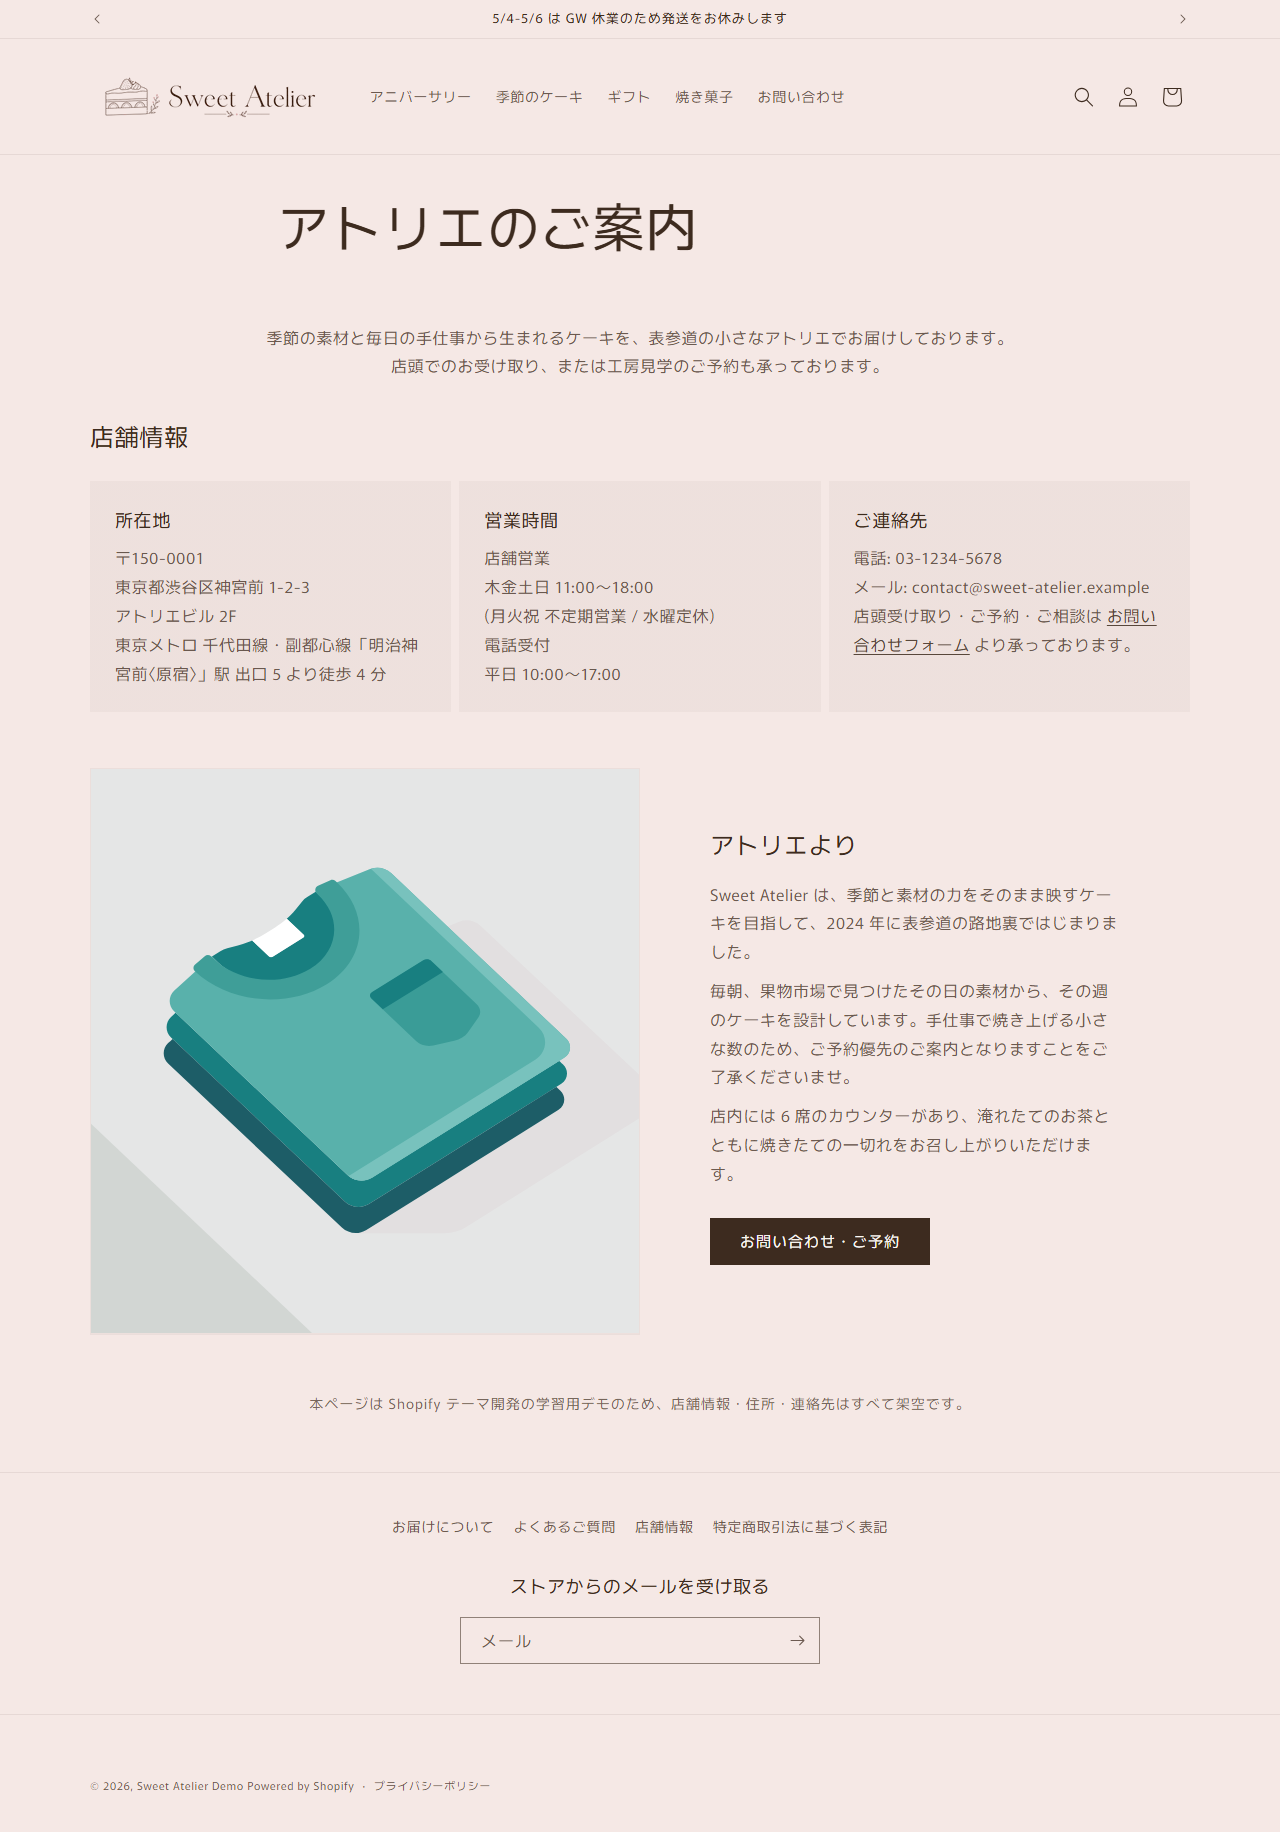
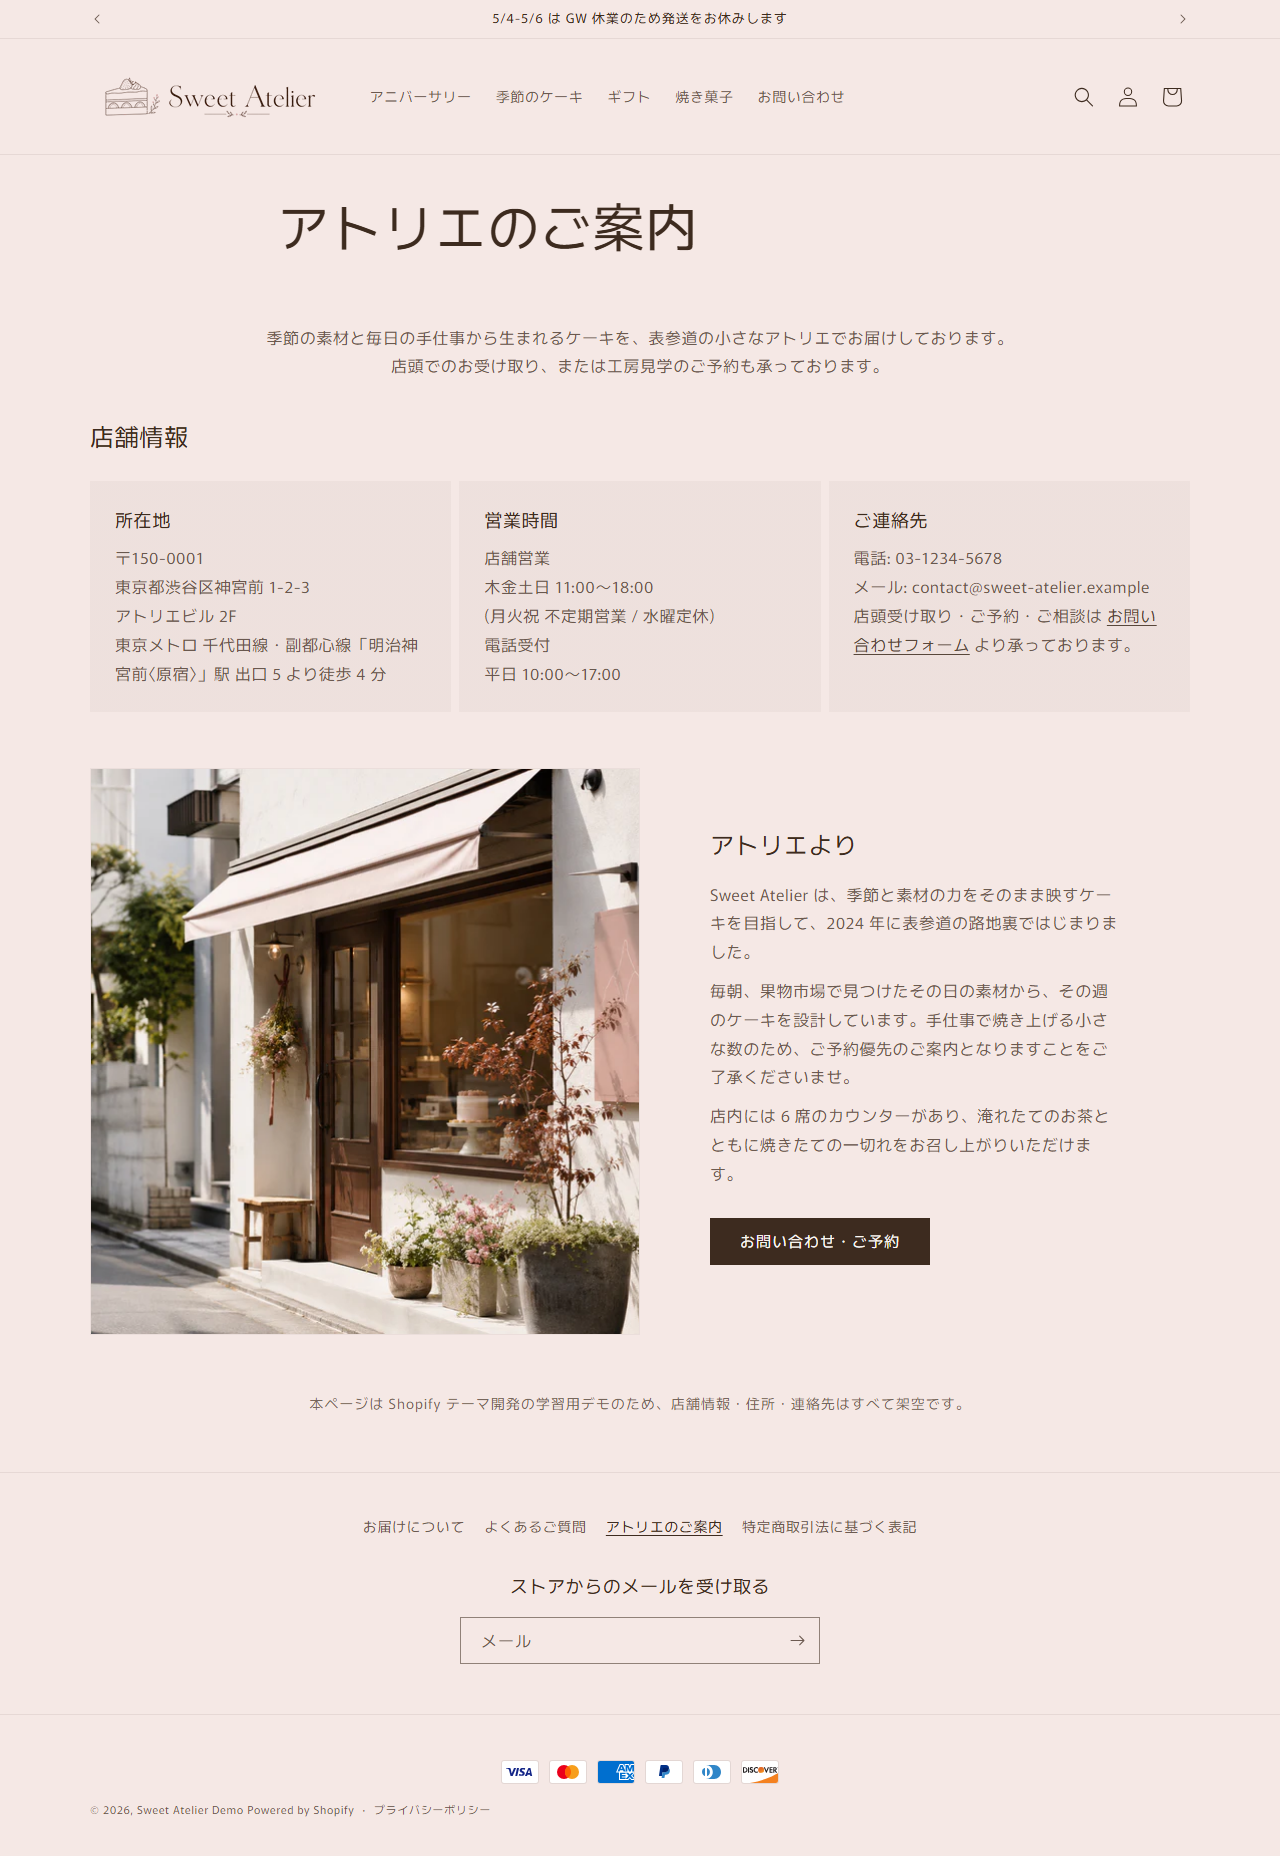
feat: wire 店舗外観 image into アトリエのご案内 page
- page.store-info: shop_atelier image-with-text now uses
  shopify://shop_images/11-store-exterior.png (height: adapt)
- re-capture 08-page-store-info screenshots (desktop/mobile)
- update admin-setup / qa-checklist notes

diff --git a/docs/admin-setup.md b/docs/admin-setup.md
@@ -150,7 +150,7 @@ Phase 3 クロージング時に1件は流して以下を確認:
 
 - **テンプレート一覧は live(発行中)テーマから取得されます**。`shopify theme dev` で開発テーマだけ最新化しても admin のドロップダウンには出ないため、`shopify theme push --theme=<live-theme-id>` で live を最新化してから admin 作業を行ってください。
 - ハンドルを英字にしておくと、他ページからの相互リンク(`/pages/delivery` 等)が確実に動きます。
-- アトリエのご案内ページの `image-with-text` セクションは画像を空のまま push しています。アトリエ写真ができたらテーマカスタマイザで画像をアップロードしてください。
+- アトリエのご案内ページの `image-with-text`（`shop_atelier`）セクションには `docs/seed-data/banners/11-store-exterior.png` を Files にアップロードのうえ設定済み（`templates/page.store-info.json` に `shopify://shop_images/11-store-exterior.png` を記述、`height: adapt`）。画像を差し替える場合は Files に新ファイルをアップロード → テーマカスタマイザ or 同テンプレートの `shop_atelier.settings.image` を更新。
 
 ---
 

diff --git a/docs/qa-checklist.md b/docs/qa-checklist.md
@@ -189,7 +189,7 @@
 
 #### 既知の未対応（Phase 4 で対応）
 - [ ] アレルゲン構造化データ（metafield ベース）は Phase 3g として未実施（任意・スキップ）
-- [ ] `image-with-text` セクション（アトリエのご案内ページのアトリエ写真）は画像未アップロード（user 後付け）
+- [x] `image-with-text` セクション（アトリエのご案内ページのアトリエ写真）に `11-store-exterior.png` を設定済み（2026-05-12）
 - [ ] レスポンシブ細部・Lighthouse 計測は Phase 4 で対応
 
 ### Phase 4: 仕上げ・公開準備（2026-05-11 完了）
